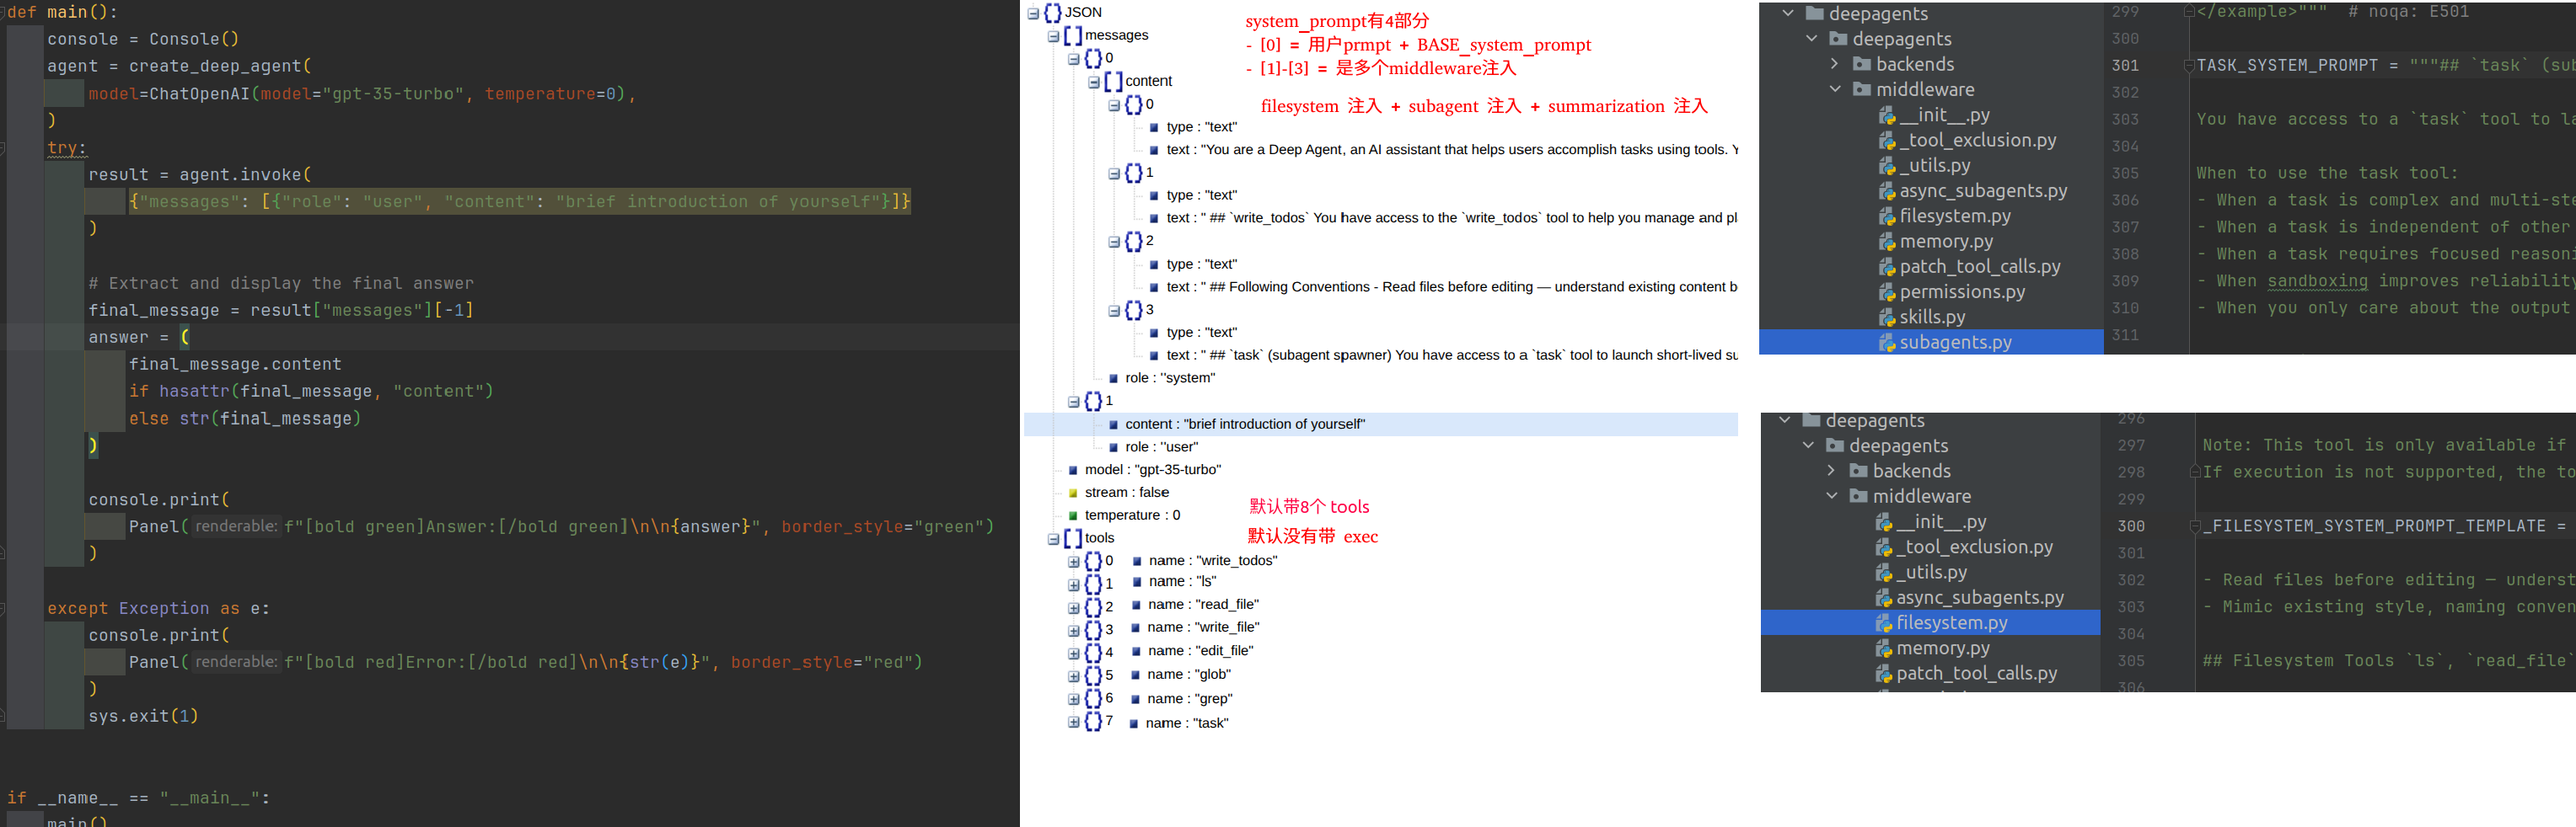
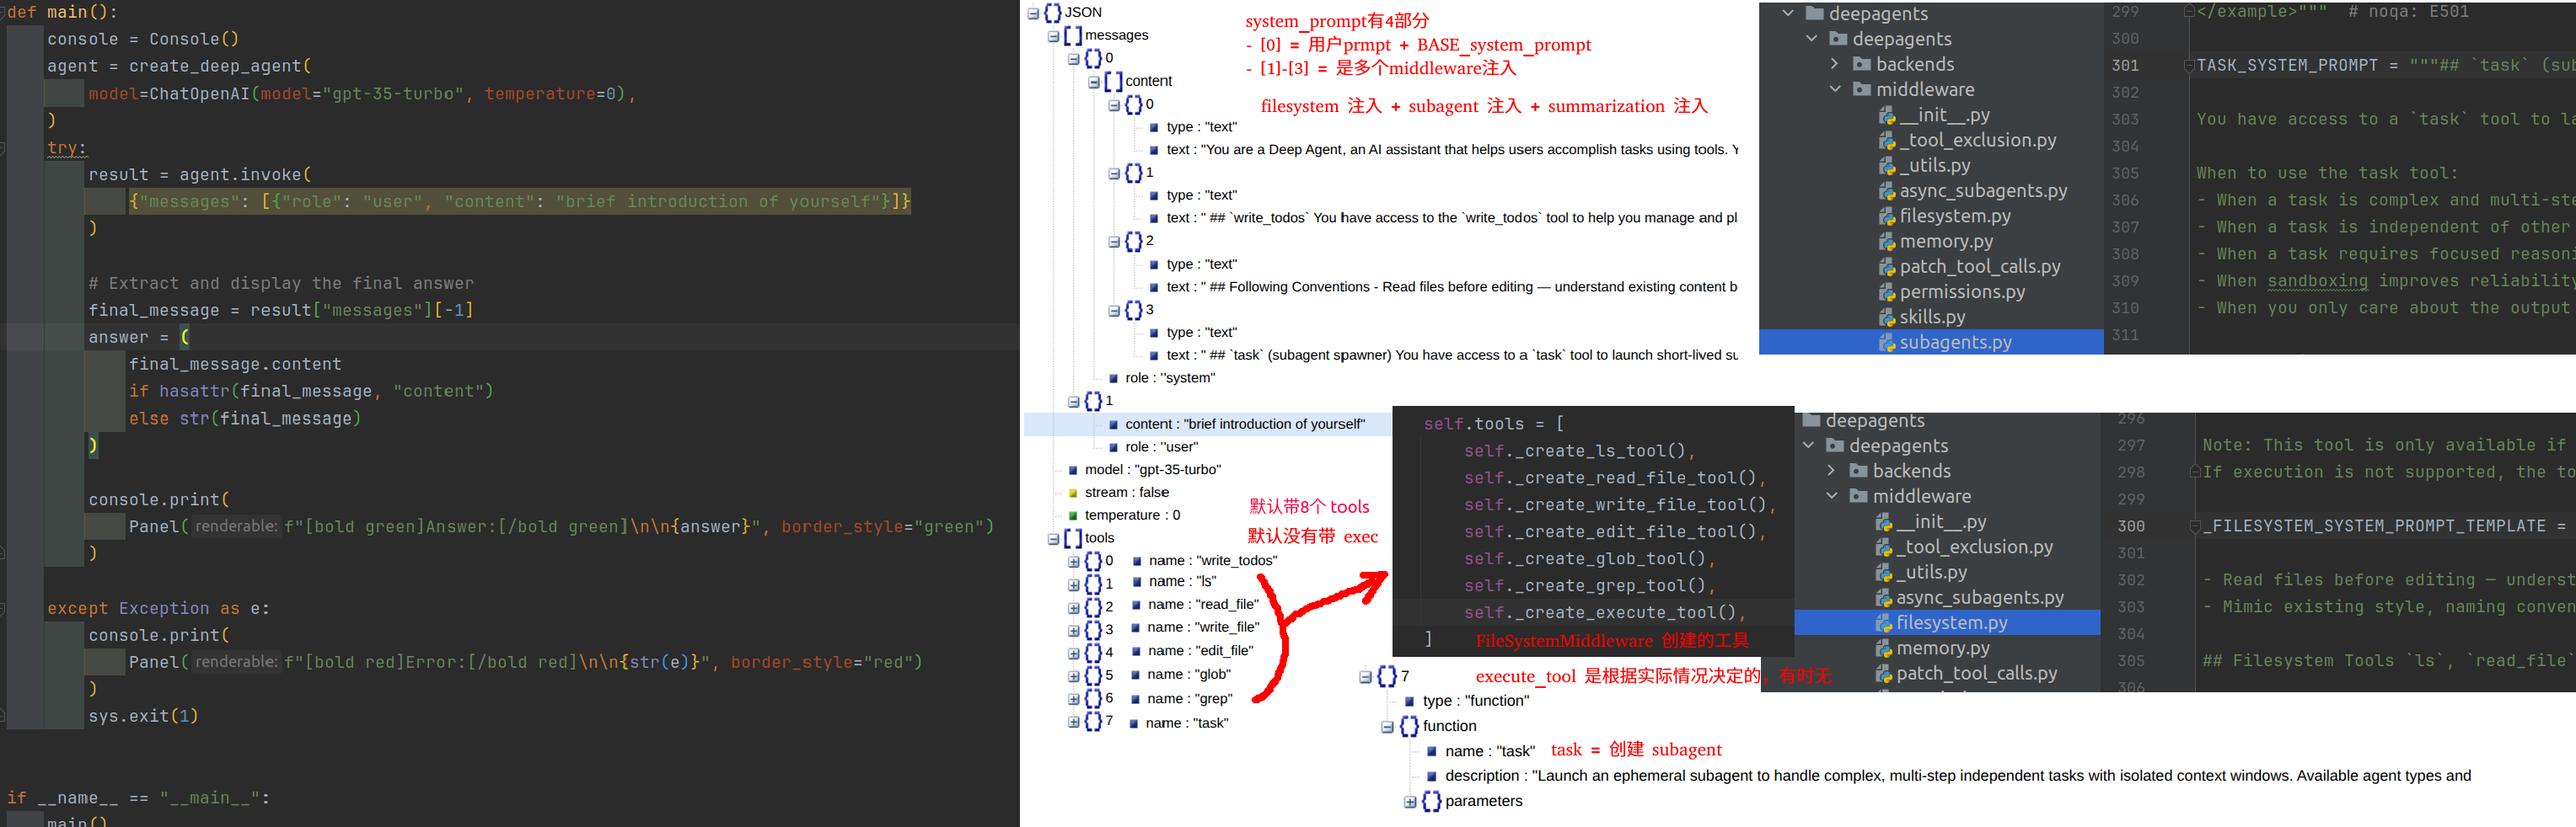
subagent demo

Changed region(s): [[0.4663, 0.4888, 0.9637, 0.9776], [0.4663, 0.8248, 0.4974, 0.8554]]

diff --git a/examples/zz_learn/14_subagent.py b/examples/zz_learn/14_subagent.py
@@ -1,0 +1,73 @@
+from deepagents import create_deep_agent
+from dotenv import load_dotenv
+from langchain.agents import create_agent
+from langchain_core.messages import HumanMessage
+from langchain_core.tools import tool
+from langchain_openai import ChatOpenAI
+
+load_dotenv()
+
+
+# Define custom tools for our sub-agents
+@tool
+def get_weather(city: str) -> str:
+    """Get weather information for a city."""
+    return f"Weather in {city}: 22°C, sunny"
+
+
+@tool
+def get_soccer_scores(team: str) -> str:
+    """Get latest soccer scores for a team."""
+    return f"Latest scores for {team}: Won 3-1"
+
+
+agent_model = ChatOpenAI(model="gpt-5.4", temperature=0)
+
+
+def main():
+    subagents = [
+        {
+            "name": "weather_agent",
+            "description": "Use this agent to get weather information",
+            "system_prompt": "You are a weather agent. Use the get_weather tool to provide weather information.",
+            "tools": [get_weather],
+            # "model": agent_model,  # override main agent's model
+        },
+        {
+            "name": "soccer_agent",
+            "description": "Use this agent to get latest soccer scores",
+            "system_prompt": "You are a soccer agent. Use the get_soccer_scores tool to provide match information.",
+            "tools": [get_soccer_scores],
+        },
+        # Pre-compiled sub-agent example
+        # {
+        #     "name": "research_agent",
+        #     "description": "General research agent",
+        #     "runnable": create_agent(
+        #         model="openai:gpt-4o",
+        #         tools=[get_weather, get_soccer_scores],
+        #         system_prompt="You are a research assistant that can gather various information."
+        #     ),
+        # }
+    ]
+
+    main_agent = create_deep_agent(
+        model=agent_model,
+        subagents=subagents,
+        system_prompt="You are an orchestrator agent that delegates tasks to specialized sub-agents."
+    )
+
+    result = main_agent.invoke({
+        "messages": [
+            HumanMessage(content="What's the weather in Tokyo and what are the latest scores for Manchester City?")]
+    })
+
+    print(result)
+    # The agent will:
+    # 1. Call task tool with weather_agent for weather query
+    # 2. Call task tool with soccer_agent for scores query
+    # 3. Synthesize both results into a final response
+
+
+if __name__ == "__main__":
+    main()
